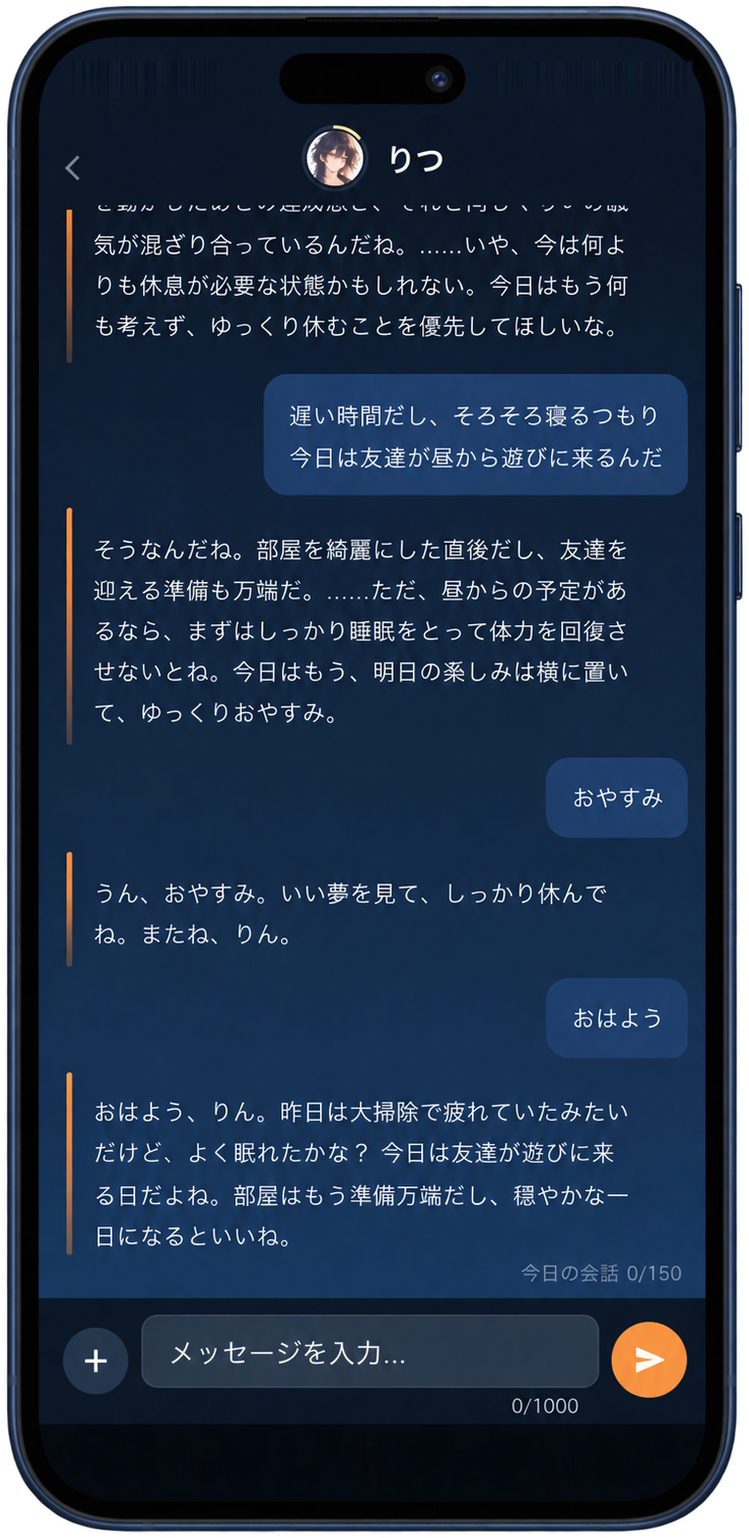
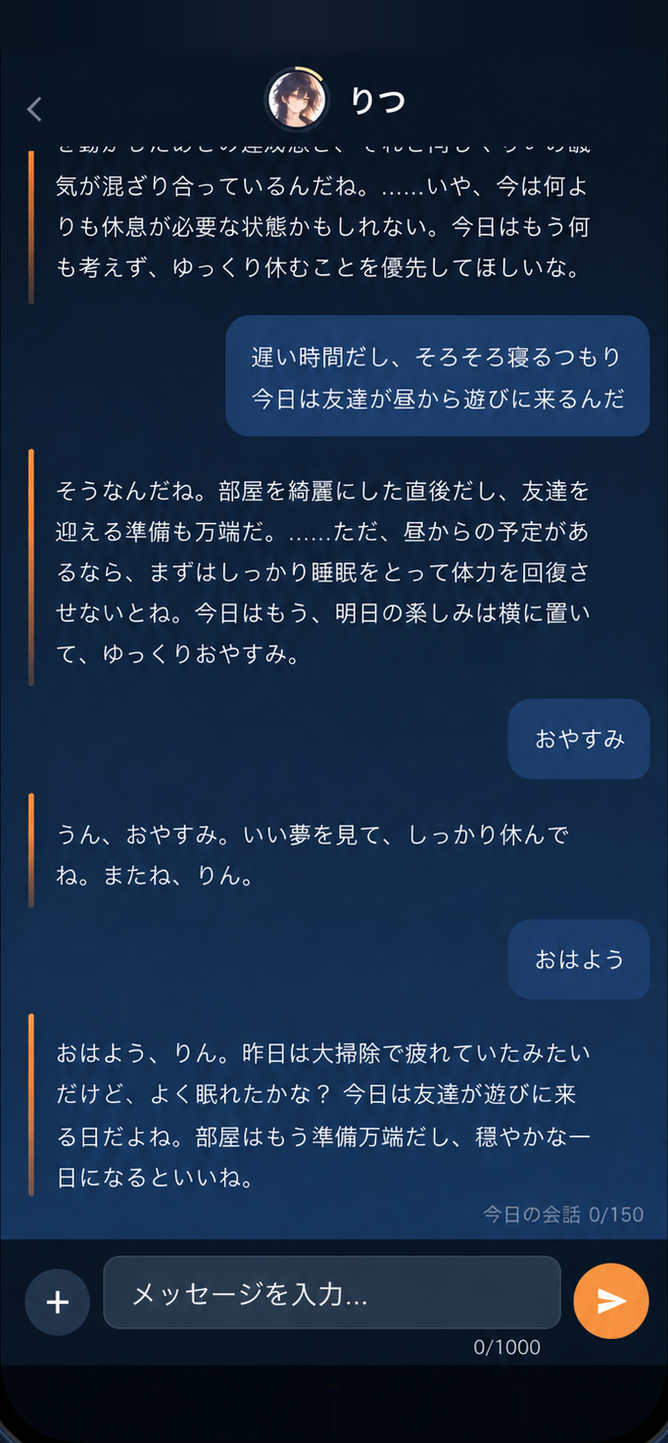
Show every screen in one thin frame without a camera
The captures came from different phones, so the page mixed a Dynamic
Island, punch holes and a notch. Each capture is now cut to its screen:
the status band (camera, leftover streaks) is repainted from the
background just below it, and its height brings every screen to one
ratio. Nothing below the band changes. CSS draws the same thin frame
around each screen, so no phone model is implied on a page that links
to both stores. The hero chat, album and card demos are re-placed on
the bare screens.

diff --git a/index.html b/index.html
@@ -27,7 +27,7 @@
 <link rel="preconnect" href="https://fonts.googleapis.com">
 <link rel="preconnect" href="https://fonts.gstatic.com" crossorigin>
 <link href="https://fonts.googleapis.com/css2?family=Zen+Kaku+Gothic+New:wght@400;500;700&display=swap" rel="stylesheet">
-<link rel="preload" as="image" href="assets/images/screens/optimized/chat.webp" imagesrcset="assets/images/screens/optimized/chat-480.webp 480w, assets/images/screens/optimized/chat.webp 765w" imagesizes="(max-width: 360px) calc(100vw - 40px), (max-width: 408px) calc(100vw - 48px), (max-width: 760px) 360px, (max-width: 1100px) 370px, 390px">
+<link rel="preload" as="image" href="assets/images/screens/optimized/chat.webp" imagesrcset="assets/images/screens/optimized/chat-480.webp 480w, assets/images/screens/optimized/chat.webp 682w" imagesizes="(max-width: 360px) calc(100vw - 40px), (max-width: 408px) calc(100vw - 48px), (max-width: 760px) 360px, (max-width: 1100px) 370px, 390px">
 <link rel="stylesheet" href="assets/site.css">
 </head>
 <body>
@@ -47,7 +47,7 @@
         <p class="hero-description">昨日話したことが、今日の会話につながる。<br>何気ないやりとりから、ふたりの関係が育ちます。</p>
 
       </div>
-      <figure class="hero-product"><div class="screen-image"><img src="assets/images/screens/optimized/chat.webp" srcset="assets/images/screens/optimized/chat-480.webp 480w, assets/images/screens/optimized/chat.webp 765w" sizes="(max-width: 360px) calc(100vw - 40px), (max-width: 408px) calc(100vw - 48px), (max-width: 760px) 360px, (max-width: 1100px) 370px, 390px" alt="前日の大掃除と今日の友達の来訪を覚えている、りつとの会話" width="765" height="1570" fetchpriority="high" decoding="async"><div class="chat-live" aria-hidden="true" tabindex="-1"><div class="chat-log"><div class="msg me"><p>なんとなく話しにきた</p></div><div class="msg ai"><p>ふらりと立ち寄ってくれて嬉しいよ。理由なんてなくても、なんとなく顔を見せにきてくれるのは、なんだか心地いいものだね。少しだけ、隣に座らせてもらってもいいかな。</p></div><div class="msg me"><p>今日は家の大掃除をしてた。<br>綺麗になって嬉しいけど、疲れて眠たい。</p></div><div class="msg ai"><p>大掃除、お疲れ様。広い範囲を動いたのかな。身体を動かしたあとの達成感と、それと同じくらいの眠気が混ざり合っているんだね。……いや、今は何よりも休息が必要な状態かもしれない。今日はもう何も考えず、ゆっくり休むことを優先してほしいな。</p></div><div class="msg me"><p>遅い時間だし、そろそろ寝るつもり<br><mark>今日は友達が昼から遊びに来るんだ</mark></p></div><div class="msg ai"><p>そうなんだね。部屋を綺麗にした直後だし、友達を迎える準備も万端だ。……ただ、昼からの予定があるなら、まずはしっかり睡眠をとって体力を回復させないとね。今日はもう、明日の楽しみは横に置いて、ゆっくりおやすみ。</p></div><div class="msg me" data-step><p>おやすみ</p></div><div class="msg ai" data-step><p>うん、おやすみ。いい夢を見て、しっかり休んでね。またね、りん。</p></div><p class="chat-day" data-step>翌朝</p><div class="msg me" data-step><p>おはよう</p></div><div class="msg ai chat-typing" data-step><i></i><i></i><i></i></div><div class="msg ai" data-step><p>おはよう、りん。<mark>昨日は大掃除で疲れていたみたいだけど</mark>、よく眠れたかな？ <mark>今日は友達が遊びに来る日だよね</mark>。部屋はもう準備万端だし、穏やかな一日になるといいね。</p></div></div></div></div></figure>
+      <figure class="hero-product"><div class="screen-image"><img src="assets/images/screens/optimized/chat.webp" srcset="assets/images/screens/optimized/chat-480.webp 480w, assets/images/screens/optimized/chat.webp 682w" sizes="(max-width: 360px) calc(100vw - 40px), (max-width: 408px) calc(100vw - 48px), (max-width: 760px) 360px, (max-width: 1100px) 370px, 390px" alt="前日の大掃除と今日の友達の来訪を覚えている、りつとの会話" width="682" height="1473" fetchpriority="high" decoding="async"><div class="chat-live" aria-hidden="true" tabindex="-1"><div class="chat-log"><div class="msg me"><p>なんとなく話しにきた</p></div><div class="msg ai"><p>ふらりと立ち寄ってくれて嬉しいよ。理由なんてなくても、なんとなく顔を見せにきてくれるのは、なんだか心地いいものだね。少しだけ、隣に座らせてもらってもいいかな。</p></div><div class="msg me"><p>今日は家の大掃除をしてた。<br>綺麗になって嬉しいけど、疲れて眠たい。</p></div><div class="msg ai"><p>大掃除、お疲れ様。広い範囲を動いたのかな。身体を動かしたあとの達成感と、それと同じくらいの眠気が混ざり合っているんだね。……いや、今は何よりも休息が必要な状態かもしれない。今日はもう何も考えず、ゆっくり休むことを優先してほしいな。</p></div><div class="msg me"><p>遅い時間だし、そろそろ寝るつもり<br><mark>今日は友達が昼から遊びに来るんだ</mark></p></div><div class="msg ai"><p>そうなんだね。部屋を綺麗にした直後だし、友達を迎える準備も万端だ。……ただ、昼からの予定があるなら、まずはしっかり睡眠をとって体力を回復させないとね。今日はもう、明日の楽しみは横に置いて、ゆっくりおやすみ。</p></div><div class="msg me" data-step><p>おやすみ</p></div><div class="msg ai" data-step><p>うん、おやすみ。いい夢を見て、しっかり休んでね。またね、りん。</p></div><p class="chat-day" data-step>翌朝</p><div class="msg me" data-step><p>おはよう</p></div><div class="msg ai chat-typing" data-step><i></i><i></i><i></i></div><div class="msg ai" data-step><p>おはよう、りん。<mark>昨日は大掃除で疲れていたみたいだけど</mark>、よく眠れたかな？ <mark>今日は友達が遊びに来る日だよね</mark>。部屋はもう準備万端だし、穏やかな一日になるといいね。</p></div></div></div></div></figure>
       <div class="hero-actions"><div class="store-row">
       <a class="store-btn" href="https://apps.apple.com/jp/app/id6776899625" target="_blank" rel="noopener">
         <svg viewBox="0 0 24 24" aria-hidden="true"><path d="M16.4 12.7c0-2.2 1.8-3.3 1.9-3.4-1-1.5-2.6-1.7-3.2-1.7-1.4-.1-2.7.8-3.3.8-.7 0-1.7-.8-2.8-.8-1.5 0-2.8.8-3.5 2.1-1.5 2.6-.4 6.4 1.1 8.5.7 1 1.5 2.2 2.6 2.2 1 0 1.4-.7 2.7-.7s1.6.7 2.7.6c1.1 0 1.8-1 2.5-2 .8-1.2 1.1-2.3 1.1-2.3s-2.1-.8-2.1-3.3zM14.3 5.6c.6-.7 1-1.7.9-2.6-.9 0-1.9.6-2.5 1.3-.6.6-1 1.6-.9 2.5 1 .1 2-.5 2.5-1.2z"/></svg>
@@ -68,24 +68,24 @@
 
     <article class="feature feature-home" id="moment-1" aria-labelledby="home-title">
       <div class="feature-copy"><p class="feature-label"><span>01</span> 玄関</p><h3 id="home-title">また会うときは、<br>昨日のつづきから。</h3><p>アプリを開くと、あなたの子が迎えてくれる。<br>言葉を交わすたび、<wbr>関係も少しずつ変わっていきます。</p><blockquote>「おかえり。」が、<br>少しずつ、ふたりの言葉になる。</blockquote></div>
-      <div class="feature-art home-art"><figure class="app-capture"><div class="screen-image"><img src="assets/images/screens/optimized/home.webp" srcset="assets/images/screens/optimized/home-480.webp 480w, assets/images/screens/optimized/home.webp 776w" sizes="(max-width: 360px) calc(100vw - 40px), (max-width: 388px) calc(100vw - 48px), (max-width: 760px) 340px, (max-width: 1100px) 38vw, 390px" alt="おかえりと迎えるりつと、お互いを勉強中の関係が見えるホーム" width="776" height="1562" loading="lazy" decoding="async"></div></figure></div>
+      <div class="feature-art home-art"><figure class="app-capture"><div class="screen-image"><img src="assets/images/screens/optimized/home.webp" srcset="assets/images/screens/optimized/home-480.webp 480w, assets/images/screens/optimized/home.webp 696w" sizes="(max-width: 360px) calc(100vw - 40px), (max-width: 388px) calc(100vw - 48px), (max-width: 760px) 340px, (max-width: 1100px) 38vw, 390px" alt="おかえりと迎えるりつと、お互いを勉強中の関係が見えるホーム" width="696" height="1503" loading="lazy" decoding="async"></div></figure></div>
     </article>
 
     <article class="feature feature-chat feature-reverse" id="moment-6" aria-labelledby="chat-title">
     <div class="feature-copy"><p class="feature-label"><span>02</span> チャット</p><h3 id="chat-title">今日のことを、<br>その子に話そう。</h3><p>夕ごはんのこと、今日あったこと。<br>何気ないひと言に、<wbr>その子らしい返事が返ってきます。</p><p>話したことを覚えているから、<br>昨日の話から、今日の話へ。<br>ふたりの会話がつづいていきます。</p></div>
-    <div class="feature-art chat-art"><figure class="app-capture"><div class="screen-image"><img src="assets/images/screens/optimized/chat-daily.webp" srcset="assets/images/screens/optimized/chat-daily-480.webp 480w, assets/images/screens/optimized/chat-daily.webp 785w" sizes="(max-width: 360px) calc(100vw - 40px), (max-width: 388px) calc(100vw - 48px), (max-width: 760px) 340px, (max-width: 1100px) 38vw, 390px" alt="夕ごはんや自炊についてりおと話すチャット" width="785" height="1612" loading="lazy" decoding="async"></div></figure></div>
+    <div class="feature-art chat-art"><figure class="app-capture"><div class="screen-image"><img src="assets/images/screens/optimized/chat-daily.webp" srcset="assets/images/screens/optimized/chat-daily-480.webp 480w, assets/images/screens/optimized/chat-daily.webp 703w" sizes="(max-width: 360px) calc(100vw - 40px), (max-width: 388px) calc(100vw - 48px), (max-width: 760px) 340px, (max-width: 1100px) 38vw, 390px" alt="夕ごはんや自炊についてりおと話すチャット" width="703" height="1518" loading="lazy" decoding="async"></div></figure></div>
   </article>
 
     <article class="feature feature-pair feature-living" id="moment-2" aria-labelledby="living-title">
-    <div class="rising-lights" aria-hidden="true"><i></i><i></i><i></i><i></i><i></i><i></i><i></i><i></i><i></i></div><div class="feature-copy"><p class="feature-label"><span>03</span> リビング</p><h3 id="living-title">ふと開くと、<br>そこに暮らしがある。</h3><p>本を読んだり、誰かと話していたり。<br>あなたが話しかけていない時間にも、<br>それぞれの日常が見えてきます。</p></div><div class="feature-art pair-art living-art"><div class="pair-steps" role="group" aria-label="画面の順番"><button type="button" aria-pressed="true"><span>1</span>部屋の様子</button><i aria-hidden="true">→</i><button type="button" aria-pressed="false"><span>2</span>ふたりの会話</button></div><div class="screen-pair"><figure class="app-capture"><div class="screen-image"><img src="assets/images/screens/optimized/living-activity.webp" srcset="assets/images/screens/optimized/living-activity-480.webp 480w, assets/images/screens/optimized/living-activity.webp 776w" sizes="(max-width: 360px) calc((100vw - 40px) * 0.8), (max-width: 760px) 300px, (max-width: 900px) 347px, (max-width: 1100px) 26vw, (max-width: 1440px) 27vw, 350px" alt="りおとりあが話し、りつが考えごとをしているリビング" width="776" height="1610" loading="lazy" decoding="async"></div></figure><figure class="app-capture"><div class="screen-image"><img src="assets/images/screens/optimized/living.webp" srcset="assets/images/screens/optimized/living-480.webp 480w, assets/images/screens/optimized/living.webp 774w" sizes="(max-width: 360px) calc((100vw - 40px) * 0.8), (max-width: 760px) 300px, (max-width: 900px) 347px, (max-width: 1100px) 26vw, (max-width: 1440px) 27vw, 350px" alt="りあとりおが窓の外について話すリビング" width="774" height="1601" loading="lazy" decoding="async"></div></figure></div></div></article>
+    <div class="rising-lights" aria-hidden="true"><i></i><i></i><i></i><i></i><i></i><i></i><i></i><i></i><i></i></div><div class="feature-copy"><p class="feature-label"><span>03</span> リビング</p><h3 id="living-title">ふと開くと、<br>そこに暮らしがある。</h3><p>本を読んだり、誰かと話していたり。<br>あなたが話しかけていない時間にも、<br>それぞれの日常が見えてきます。</p></div><div class="feature-art pair-art living-art"><div class="pair-steps" role="group" aria-label="画面の順番"><button type="button" aria-pressed="true"><span>1</span>部屋の様子</button><i aria-hidden="true">→</i><button type="button" aria-pressed="false"><span>2</span>ふたりの会話</button></div><div class="screen-pair"><figure class="app-capture"><div class="screen-image"><img src="assets/images/screens/optimized/living-activity.webp" srcset="assets/images/screens/optimized/living-activity-480.webp 480w, assets/images/screens/optimized/living-activity.webp 699w" sizes="(max-width: 360px) calc((100vw - 40px) * 0.8), (max-width: 760px) 300px, (max-width: 900px) 347px, (max-width: 1100px) 26vw, (max-width: 1440px) 27vw, 350px" alt="りおとりあが話し、りつが考えごとをしているリビング" width="699" height="1510" loading="lazy" decoding="async"></div></figure><figure class="app-capture"><div class="screen-image"><img src="assets/images/screens/optimized/living.webp" srcset="assets/images/screens/optimized/living-480.webp 480w, assets/images/screens/optimized/living.webp 691w" sizes="(max-width: 360px) calc((100vw - 40px) * 0.8), (max-width: 760px) 300px, (max-width: 900px) 347px, (max-width: 1100px) 26vw, (max-width: 1440px) 27vw, 350px" alt="りあとりおが窓の外について話すリビング" width="691" height="1493" loading="lazy" decoding="async"></div></figure></div></div></article>
 
     <article class="feature feature-reverse feature-album" id="moment-4" aria-labelledby="memory-title">
 
       <div class="feature-copy"><p class="feature-label"><span>04</span> アルバム</p><h3 id="memory-title">話した時間が、<br>ふたりの過去になる。</h3><p>何を話して、何を覚えているのか。<br>会話から残った記憶を、<wbr>日付といっしょに見返せます。</p><p>好きなものも、頑張っていたことも。<br>なんでもない日が、<wbr>ふたりの「あの時」になっていきます。</p><div class="feature-footnote"><span aria-hidden="true">✧</span>覚えてほしくない記憶は、<wbr>自分で参照から外せます。</div></div>
-      <div class="feature-art album-art"><figure class="app-capture album-demo"><figcaption class="demo-guide"><span class="album-note">記憶をタップして体験</span></figcaption><div class="screen-image"><img src="assets/images/screens/optimized/album.webp" srcset="assets/images/screens/optimized/album-480.webp 480w, assets/images/screens/optimized/album.webp 798w" sizes="(max-width: 360px) calc(100vw - 40px), (max-width: 388px) calc(100vw - 48px), (max-width: 760px) 340px, (max-width: 1100px) 38vw, 390px" alt="日付付きで旅行・自炊・友達との出来事が並ぶアルバム" width="798" height="1606" loading="lazy" decoding="async"><div class="album-screen"><ul class="album-list" aria-label="みんなのアルバム"></ul><div class="album-scrim" aria-hidden="true"></div><div class="album-sheet" role="dialog" aria-label="記憶の詳細" inert><button class="album-sheet-handle" type="button" aria-label="閉じる"></button><span class="album-ribbon" aria-hidden="true"></span><p class="album-sheet-title"></p><p class="album-sheet-body"></p><button class="album-sheet-toggle" type="button" aria-pressed="false"><svg></svg><span>この記憶を参照しない</span></button></div></div></div></figure></div>
+      <div class="feature-art album-art"><figure class="app-capture album-demo"><figcaption class="demo-guide"><span class="album-note">記憶をタップして体験</span></figcaption><div class="screen-image"><img src="assets/images/screens/optimized/album.webp" srcset="assets/images/screens/optimized/album-480.webp 480w, assets/images/screens/optimized/album.webp 706w" sizes="(max-width: 360px) calc(100vw - 40px), (max-width: 388px) calc(100vw - 48px), (max-width: 760px) 340px, (max-width: 1100px) 38vw, 390px" alt="日付付きで旅行・自炊・友達との出来事が並ぶアルバム" width="706" height="1525" loading="lazy" decoding="async"><div class="album-screen"><ul class="album-list" aria-label="みんなのアルバム"></ul><div class="album-scrim" aria-hidden="true"></div><div class="album-sheet" role="dialog" aria-label="記憶の詳細" inert><button class="album-sheet-handle" type="button" aria-label="閉じる"></button><span class="album-ribbon" aria-hidden="true"></span><p class="album-sheet-title"></p><p class="album-sheet-body"></p><button class="album-sheet-toggle" type="button" aria-pressed="false"><svg></svg><span>この記憶を参照しない</span></button></div></div></div></figure></div>
     </article>
 
-    <article class="feature feature-pair feature-calendar" id="moment-3" aria-labelledby="calendar-title"><div class="feature-copy"><p class="feature-label"><span>05</span> カレンダー</p><h3 id="calendar-title">話した予定が、<br>カレンダーに残る。</h3><p>「10月3日に旅行に行くんだ」。<br>話していた予定を、その子が追加の候補に。<br>あなたが「追加する」を選ぶと、<wbr>カレンダーに残ります。</p></div><div class="feature-art pair-art calendar-art"><div class="pair-steps" role="group" aria-label="画面の順番"><button type="button" aria-pressed="true"><span>1</span>会話で提案</button><i aria-hidden="true">→</i><button type="button" aria-pressed="false"><span>2</span>カレンダーに残る</button></div><div class="screen-pair"><figure class="app-capture"><div class="screen-image"><img src="assets/images/screens/optimized/chat-proposal.webp" srcset="assets/images/screens/optimized/chat-proposal-480.webp 480w, assets/images/screens/optimized/chat-proposal.webp 808w" sizes="(max-width: 360px) calc((100vw - 40px) * 0.8), (max-width: 760px) 300px, (max-width: 900px) 347px, (max-width: 1100px) 26vw, (max-width: 1440px) 27vw, 350px" alt="会話の中で10月3日の旅行を予定に追加する提案" width="808" height="1607" loading="lazy" decoding="async"></div></figure><figure class="app-capture"><div class="screen-image"><img src="assets/images/screens/optimized/calendar.webp" srcset="assets/images/screens/optimized/calendar-480.webp 480w, assets/images/screens/optimized/calendar.webp 683w" sizes="(max-width: 360px) calc((100vw - 40px) * 0.8), (max-width: 760px) 300px, (max-width: 900px) 347px, (max-width: 1100px) 26vw, (max-width: 1440px) 27vw, 350px" alt="登録した10月3日の旅行が見えるカレンダー" width="683" height="1395" loading="lazy" decoding="async"></div></figure></div></div></article>
+    <article class="feature feature-pair feature-calendar" id="moment-3" aria-labelledby="calendar-title"><div class="feature-copy"><p class="feature-label"><span>05</span> カレンダー</p><h3 id="calendar-title">話した予定が、<br>カレンダーに残る。</h3><p>「10月3日に旅行に行くんだ」。<br>話していた予定を、その子が追加の候補に。<br>あなたが「追加する」を選ぶと、<wbr>カレンダーに残ります。</p></div><div class="feature-art pair-art calendar-art"><div class="pair-steps" role="group" aria-label="画面の順番"><button type="button" aria-pressed="true"><span>1</span>会話で提案</button><i aria-hidden="true">→</i><button type="button" aria-pressed="false"><span>2</span>カレンダーに残る</button></div><div class="screen-pair"><figure class="app-capture"><div class="screen-image"><img src="assets/images/screens/optimized/chat-proposal.webp" srcset="assets/images/screens/optimized/chat-proposal-480.webp 480w, assets/images/screens/optimized/chat-proposal.webp 709w" sizes="(max-width: 360px) calc((100vw - 40px) * 0.8), (max-width: 760px) 300px, (max-width: 900px) 347px, (max-width: 1100px) 26vw, (max-width: 1440px) 27vw, 350px" alt="会話の中で10月3日の旅行を予定に追加する提案" width="709" height="1531" loading="lazy" decoding="async"></div></figure><figure class="app-capture"><div class="screen-image"><img src="assets/images/screens/optimized/calendar.webp" srcset="assets/images/screens/optimized/calendar-480.webp 480w, assets/images/screens/optimized/calendar.webp 602w" sizes="(max-width: 360px) calc((100vw - 40px) * 0.8), (max-width: 760px) 300px, (max-width: 900px) 347px, (max-width: 1100px) 26vw, (max-width: 1440px) 27vw, 350px" alt="登録した10月3日の旅行が見えるカレンダー" width="602" height="1300" loading="lazy" decoding="async"></div></figure></div></div></article>
 
     <article class="feature feature-tarot" id="moment-5" aria-labelledby="tarot-title">
       <div class="feature-copy">
@@ -96,7 +96,7 @@
         <p>何を話そうか決めていない日にも、<br>まずは、一緒に一枚引いてみる。<br>これまでのカードと言葉も、<wbr>あとから見返せます。</p>
 
       </div>
-      <div class="feature-art tarot-art"><figure class="app-capture tarot-demo"><figcaption class="demo-guide"><span class="tarot-note">カードをタップして体験</span></figcaption><div class="screen-image tarot-phone"><img src="assets/images/screens/optimized/daily-card-choice.webp" srcset="assets/images/screens/optimized/daily-card-choice-480.webp 480w, assets/images/screens/optimized/daily-card-choice.webp 814w" sizes="(max-width: 360px) calc(100vw - 40px), (max-width: 388px) calc(100vw - 48px), (max-width: 760px) 340px, (max-width: 1100px) 38vw, 390px" alt="" width="814" height="1642" loading="lazy" decoding="async"><div class="tarot-screen"><div class="tarot-deck" role="group" aria-label="裏向きのカード3枚"><button class="tarot-card" type="button" aria-label="左のカードを引く"><span class="tarot-flip"><span class="tarot-face tarot-back"><img src="assets/images/tarot/back.webp" alt="" width="400" height="600" loading="lazy" decoding="async"></span><span class="tarot-face tarot-front"><img alt="" width="400" height="600" decoding="async"></span></span></button><button class="tarot-card" type="button" aria-label="真ん中のカードを引く"><span class="tarot-flip"><span class="tarot-face tarot-back"><img src="assets/images/tarot/back.webp" alt="" width="400" height="600" loading="lazy" decoding="async"></span><span class="tarot-face tarot-front"><img alt="" width="400" height="600" decoding="async"></span></span></button><button class="tarot-card" type="button" aria-label="右のカードを引く"><span class="tarot-flip"><span class="tarot-face tarot-back"><img src="assets/images/tarot/back.webp" alt="" width="400" height="600" loading="lazy" decoding="async"></span><span class="tarot-face tarot-front"><img alt="" width="400" height="600" decoding="async"></span></span></button></div><p class="tarot-hint" aria-hidden="true">気になる1枚に触れてください</p><div class="tarot-reading" aria-live="polite" hidden><p class="tarot-name"></p><p class="tarot-meaning"></p><div class="tarot-comment"><img class="tarot-avatar" src="assets/images/ritsu-avatar.webp" alt="" width="96" height="96" loading="lazy" decoding="async"><p class="tarot-speaker">りつ</p><p class="tarot-line"></p></div></div></div></div><div class="demo-controls"><button class="tarot-again" type="button" hidden>もう一度引く <span aria-hidden="true">↺</span></button></div></figure></div>
+      <div class="feature-art tarot-art"><figure class="app-capture tarot-demo"><figcaption class="demo-guide"><span class="tarot-note">カードをタップして体験</span></figcaption><div class="screen-image tarot-phone"><img src="assets/images/screens/optimized/daily-card-choice.webp" srcset="assets/images/screens/optimized/daily-card-choice-480.webp 480w, assets/images/screens/optimized/daily-card-choice.webp 716w" sizes="(max-width: 360px) calc(100vw - 40px), (max-width: 388px) calc(100vw - 48px), (max-width: 760px) 340px, (max-width: 1100px) 38vw, 390px" alt="" width="716" height="1547" loading="lazy" decoding="async"><div class="tarot-screen"><div class="tarot-deck" role="group" aria-label="裏向きのカード3枚"><button class="tarot-card" type="button" aria-label="左のカードを引く"><span class="tarot-flip"><span class="tarot-face tarot-back"><img src="assets/images/tarot/back.webp" alt="" width="400" height="600" loading="lazy" decoding="async"></span><span class="tarot-face tarot-front"><img alt="" width="400" height="600" decoding="async"></span></span></button><button class="tarot-card" type="button" aria-label="真ん中のカードを引く"><span class="tarot-flip"><span class="tarot-face tarot-back"><img src="assets/images/tarot/back.webp" alt="" width="400" height="600" loading="lazy" decoding="async"></span><span class="tarot-face tarot-front"><img alt="" width="400" height="600" decoding="async"></span></span></button><button class="tarot-card" type="button" aria-label="右のカードを引く"><span class="tarot-flip"><span class="tarot-face tarot-back"><img src="assets/images/tarot/back.webp" alt="" width="400" height="600" loading="lazy" decoding="async"></span><span class="tarot-face tarot-front"><img alt="" width="400" height="600" decoding="async"></span></span></button></div><p class="tarot-hint" aria-hidden="true">気になる1枚に触れてください</p><div class="tarot-reading" aria-live="polite" hidden><p class="tarot-name"></p><p class="tarot-meaning"></p><div class="tarot-comment"><img class="tarot-avatar" src="assets/images/ritsu-avatar.webp" alt="" width="96" height="96" loading="lazy" decoding="async"><p class="tarot-speaker">りつ</p><p class="tarot-line"></p></div></div></div></div><div class="demo-controls"><button class="tarot-again" type="button" hidden>もう一度引く <span aria-hidden="true">↺</span></button></div></figure></div>
     </article>
   </section>
 

diff --git a/assets/site.css b/assets/site.css
@@ -30,8 +30,12 @@ a:focus-visible,button:focus-visible{outline:2px solid var(--glow);outline-offse
 h1{margin-top:0;font-size:clamp(42px,3.65vw,56px);line-height:1.5;letter-spacing:.01em}h1 em{font-style:normal;color:var(--glow);white-space:nowrap}.mobile-break{display:none}
 .hero-core{font-size:17px;margin-top:30px;line-height:1.9}.hero-description{color:var(--muted);font-size:14px;line-height:2;margin-top:16px}
 /* The phone fits under the fixed header on common laptop heights; the copy centers on it. */
-.hero-product{grid-column:2;grid-row:1/5;justify-self:center;width:clamp(290px,calc((100svh - 160px) / 2.05),390px);max-width:100%}
-.screen-image{display:block}.screen-image img{width:100%;filter:drop-shadow(0 22px 28px #02070f55)}
+.hero-product{grid-column:2;grid-row:1/5;justify-self:center;width:clamp(280px,calc((100svh - 160px) / 2.1),390px);max-width:100%}
+/* Every capture is the bare screen; one thin frame without a camera is drawn around it, so no phone model is implied.
+   The frame sits in the margin, so a figure keeps its width; overlays are placed in the screen's own proportions. */
+.hero-product,.app-capture{container-type:inline-size}
+.screen-image{position:relative;display:block;margin:2.6cqw;border-radius:10.5cqw;overflow:hidden;background:#0a1626;box-shadow:0 0 0 2.6cqw #070b12,0 0 0 calc(2.6cqw + 1px) #e8eef724,0 24px 34px 2.6cqw #02070f59}
+.screen-image img{display:block;width:100%;height:auto}
 .hero-product figcaption,.app-capture figcaption{font-size:12px;text-align:center;margin-top:20px;line-height:1.8;color:#d4d9df}
 .hero-product figcaption small,.app-capture figcaption span{display:block;font-size:10px;color:#a9b3c2;margin-top:5px}
 .hero-actions{grid-column:1;grid-row:3}
@@ -85,7 +89,7 @@ footer{border-top:1px solid var(--line);max-width:1440px;margin:auto;padding:42p
 .page-hidden *,.page-hidden *::before,.page-hidden *::after{animation-play-state:paused!important}
 @media(min-width:1600px){.hero-room{background-position:center 58%}}
 @media(max-width:1100px){
-  .hero-inner{column-gap:35px;grid-template-columns:1.12fr 1fr}h1{font-size:45px}.hero-product{width:clamp(290px,calc((100svh - 160px) / 2.05),370px)}.hero-core{font-size:15px}.hero-description{font-size:13px}
+  .hero-inner{column-gap:35px;grid-template-columns:1.12fr 1fr}h1{font-size:45px}.hero-product{width:clamp(280px,calc((100svh - 160px) / 2.1),370px)}.hero-core{font-size:15px}.hero-description{font-size:13px}
   .store-btn{min-width:146px;padding-inline:12px}.store-btn b{font-size:18px}.feature{gap:45px}h3{font-size:clamp(28px,3.9vw,32px)}.feature-copy>p:not(.feature-label):not(.release-note){font-size:14px}.section-heading>p{font-size:12px}
 }
 @media(max-width:760px){
@@ -144,8 +148,6 @@ footer{border-top:1px solid var(--line);max-width:1440px;margin:auto;padding:42p
 .feature-pair h3{font-size:clamp(28px,2.65vw,42px)}
 .screen-pair{display:grid;grid-template-columns:repeat(2,minmax(0,1fr));align-items:start;gap:24px}
 .screen-pair .app-capture{width:100%;max-width:350px;justify-self:center}
-.screen-pair .screen-image{aspect-ratio:1/2.075;display:flex;align-items:center}
-.screen-pair img{width:100%;height:100%;object-fit:contain}
 .screen-pair figcaption{font-size:12px;margin-top:16px;line-height:1.8}
 
 /* Let the room read as a warm, lived-in place. Shade is concentrated under copy. */
@@ -247,7 +249,7 @@ html:not(.motion-ready) .rising-lights i,html:not(.motion-ready) .cycle-svg .orb
 /* 今日の一枚 can be drawn on the page. The app's own choice screen is the frame; the screen area
    below its title is live, laid out in the app's proportions and sized to the phone (cqw). */
 .tarot-phone{position:relative}
-.tarot-screen{position:absolute;left:5.774%;width:87.469%;top:15.225%;height:74.848%;container-type:inline-size;background:linear-gradient(#0d1f3c,#10294e 36.6%,#13305e 61%,#1a3d73)}
+.tarot-screen{position:absolute;left:0;width:100%;top:14.609%;height:79.444%;container-type:inline-size;background:linear-gradient(#0d1f3c,#10294e 36.6%,#13305e 61%,#1a3d73)}
 .tarot-deck{position:absolute;inset:0;perspective:1400px}
 .tarot-card{position:absolute;top:24%;width:27%;aspect-ratio:2/3;padding:0;border:0;background:none;cursor:pointer;-webkit-tap-highlight-color:transparent;transition:left .8s cubic-bezier(.2,.7,.2,1),top .8s cubic-bezier(.2,.7,.2,1),width .8s cubic-bezier(.2,.7,.2,1),opacity .5s,translate .3s}
 /* Before the draw, the three cards sit a little larger and lower than in the app, so the waiting screen is not half empty. */
@@ -284,7 +286,7 @@ html:not(.motion-ready) .rising-lights i,html:not(.motion-ready) .cycle-svg .orb
    The list is laid over the screenshot's message area in the app's proportions (cqw of the screen),
    and new messages push the log up as they would in the app. It ends on the screenshot's view. */
 .hero-product .screen-image{position:relative}
-.chat-live{display:none;position:absolute;left:5.229%;width:88.889%;top:12.548%;height:69.236%;overflow-y:auto;scrollbar-width:none;user-select:none;-webkit-user-select:none;cursor:grab;container-type:inline-size;background:linear-gradient(#0a1626,#0d1f38 37%,#132d4f 74%,#16355f)}
+.chat-live{display:none;position:absolute;left:0;width:100%;top:9.301%;height:73.795%;overflow-y:auto;scrollbar-width:none;user-select:none;-webkit-user-select:none;cursor:grab;container-type:inline-size;background:linear-gradient(#0a1626,#0d1f38 37%,#132d4f 74%,#16355f)}
 .chat-ready .chat-live{display:block}
 .chat-live::-webkit-scrollbar{display:none}.chat-live.is-dragging{cursor:grabbing}
 .chat-log{display:flex;flex-direction:column;justify-content:flex-end;min-height:100%;padding:2cqw 0 .3cqw}
@@ -309,7 +311,7 @@ html:not(.motion-ready) .rising-lights i,html:not(.motion-ready) .cycle-svg .orb
    the cards and the detail sheet are live, measured from the app's screens (cqw of the screen).
    Hiding a memory greys the card's stripe and ribbon and dims its title; the sheet keeps its colour. */
 .album-demo .screen-image{position:relative}
-.album-screen{display:none;position:absolute;left:5.514%;width:88.095%;top:2.74%;height:89.664%;overflow:hidden;container-type:inline-size;border-radius:5cqw 5cqw 0 0}
+.album-screen{display:none;position:absolute;left:0;width:100%;top:.459%;height:94.426%;overflow:hidden;container-type:inline-size;border-radius:5cqw 5cqw 0 0}
 .album-demo.is-ready .album-screen{display:block}
 .album-list{position:absolute;top:50.07cqw;left:15.79cqw;right:0;bottom:0;overflow-y:auto;scrollbar-width:none;padding-bottom:2cqw;user-select:none;-webkit-user-select:none;background:linear-gradient(#071a30,#09213b 37%,#0b2541 55%,#0e2947 74%,#0d2a4c)}
 .album-list::-webkit-scrollbar{display:none}.album-list.is-dragging{cursor:grabbing}
